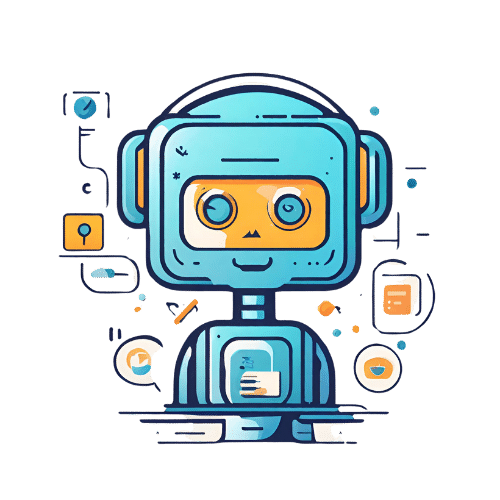
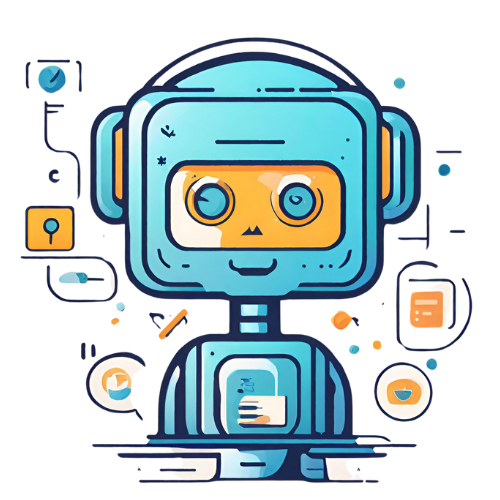
サイト名やfavicon.icoを用意

diff --git a/index.html b/index.html
@@ -1,10 +1,10 @@
 <!DOCTYPE html>
 <html lang="en">
   <head>
-    <meta charset="UTF-8">
-    <link rel="icon" href="/favicon.ico">
-    <meta name="viewport" content="width=device-width, initial-scale=1.0">
-    <title>Vite App</title>
+    <meta charset="UTF-8" />
+    <link rel="icon" href="/favicon.ico" />
+    <meta name="viewport" content="width=device-width, initial-scale=1.0" />
+    <title>Web RAG</title>
   </head>
   <body>
     <div id="app"></div>
